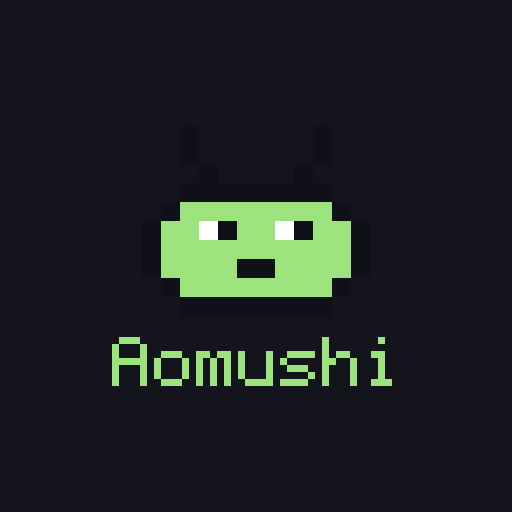
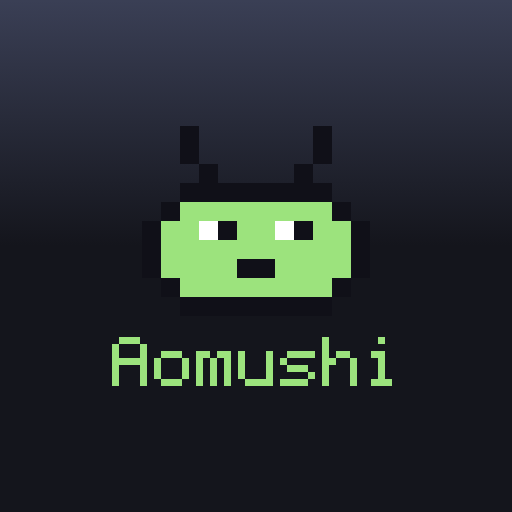
アイコンの上をグレーに起こす（黒背景に黒い触覚が同化していた）

Changed region(s): [[0.0, 0.0, 1.0, 0.2812]]

diff --git a/sw.js b/sw.js
@@ -1,5 +1,5 @@
 /* 圏外でも画面の枠だけは出るようにする。会社のデータ（api.github.com）は絶対にキャッシュしない。 */
-const V = 'aomushi-v14';  // 枠のファイルを触ったら必ず上げる（v14＝鍵の見分け札）
+const V = 'aomushi-v15';  // 枠のファイルを触ったら必ず上げる（v15＝アイコンの空をグレーに）
 const SHELL = [
   './', './index.html', './style.css', './app.js', './config.js',
   './manifest.webmanifest', './icons/icon-192.png', './icons/icon-512.png', './icons/icon-180.png',

diff --git a/app.js b/app.js
@@ -17,7 +17,7 @@ const LS = {
 
 // この端末が今どの版を動かしているか。sw.js の V と必ず同じ数字にする。
 // 「新しくしたのに出ない」を推測で潰さないための、唯一の手がかり
-const APPV = 'v14';
+const APPV = 'v15';
 
 const DEF = window.AOMUSHI_CONFIG || {};
 const cfg = () => ({
